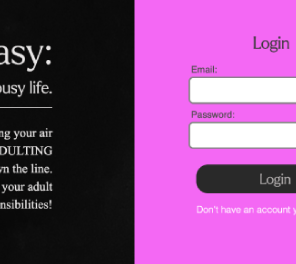
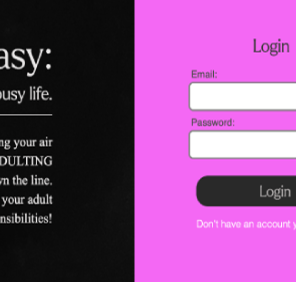
portfolio image sizing on mobile

diff --git a/src/components/pages/Portfolio.js b/src/components/pages/Portfolio.js
@@ -146,7 +146,7 @@ export default function Portfolio() {
               src={Quiz}
               className="img-fluid rounded-start"
               alt="app"
-              style={{height:"264px"}}
+             
             ></img>
           </div>
           <div className="col-md-8">
@@ -155,7 +155,7 @@ export default function Portfolio() {
               style={{
                 background: "#131c21",
                 color: "var(--accent1)",
-                height: "264px",
+             
                 borderTopRightRadius: "6px",
                 borderBottomRightRadius: "6px",
                 borderLeft:"1px solid var(accent1)"
@@ -208,7 +208,7 @@ export default function Portfolio() {
               src={Stock}
               className="img-fluid rounded-start"
               alt="app"
-              style={{height:"264px"}}
+              
             ></img>
           </div>
           <div className="col-md-8">
@@ -279,7 +279,7 @@ export default function Portfolio() {
               style={{
                 background: "#131c21",
                 color: "var(--accent1)",
-                height: "264px",
+                
                 borderTopRightRadius: "6px",
                 borderBottomRightRadius: "6px",
                 borderLeft:"1px solid var(accent1)"
@@ -328,14 +328,14 @@ export default function Portfolio() {
       </div>
         {/* TechBlog */}
         
-      <div className="card mb-3 mt-4" style={{background:"#131c21"}}>
+      <div id="tech" className="card mb-3 mt-4" style={{background:"#131c21"}}>
         <div className="row g-0">
           <div className="col-md-4">
             <img
               src={Tech}
               className="img-fluid rounded-start"
               alt="app"
-              style={{height:"264px"}}
+              
             ></img>
           </div>
           <div className="col-md-8">

diff --git a/src/components/styles/style.css b/src/components/styles/style.css
@@ -62,7 +62,7 @@ h1 {
   font-weight: 400;
   font-style: normal;
   color: var(--accent1);
-  font-size: 6.5vw;
+  font-size: 6.5rem;
   margin-top: 60px;
 }
 
@@ -211,6 +211,12 @@ h2 {
     display: flex;
     flex-wrap: wrap;
   }
+  .img-fluid{
+    width:100vw;
+    height:fit-content;
+  }
+ 
+  
 }
 
 @media (min-width: 1200px) {

diff --git a/src/components/pages/About.js b/src/components/pages/About.js
@@ -8,7 +8,7 @@ export default function About() {
   return (
     <div className="container">
       <div className="col-12">
-        <h1 className="text-center">Portfolio</h1>
+        <h1 className="text-center"style={{fontSize: 52}}>About Me</h1>
       </div>
 
       {/* Name and Role box */}
